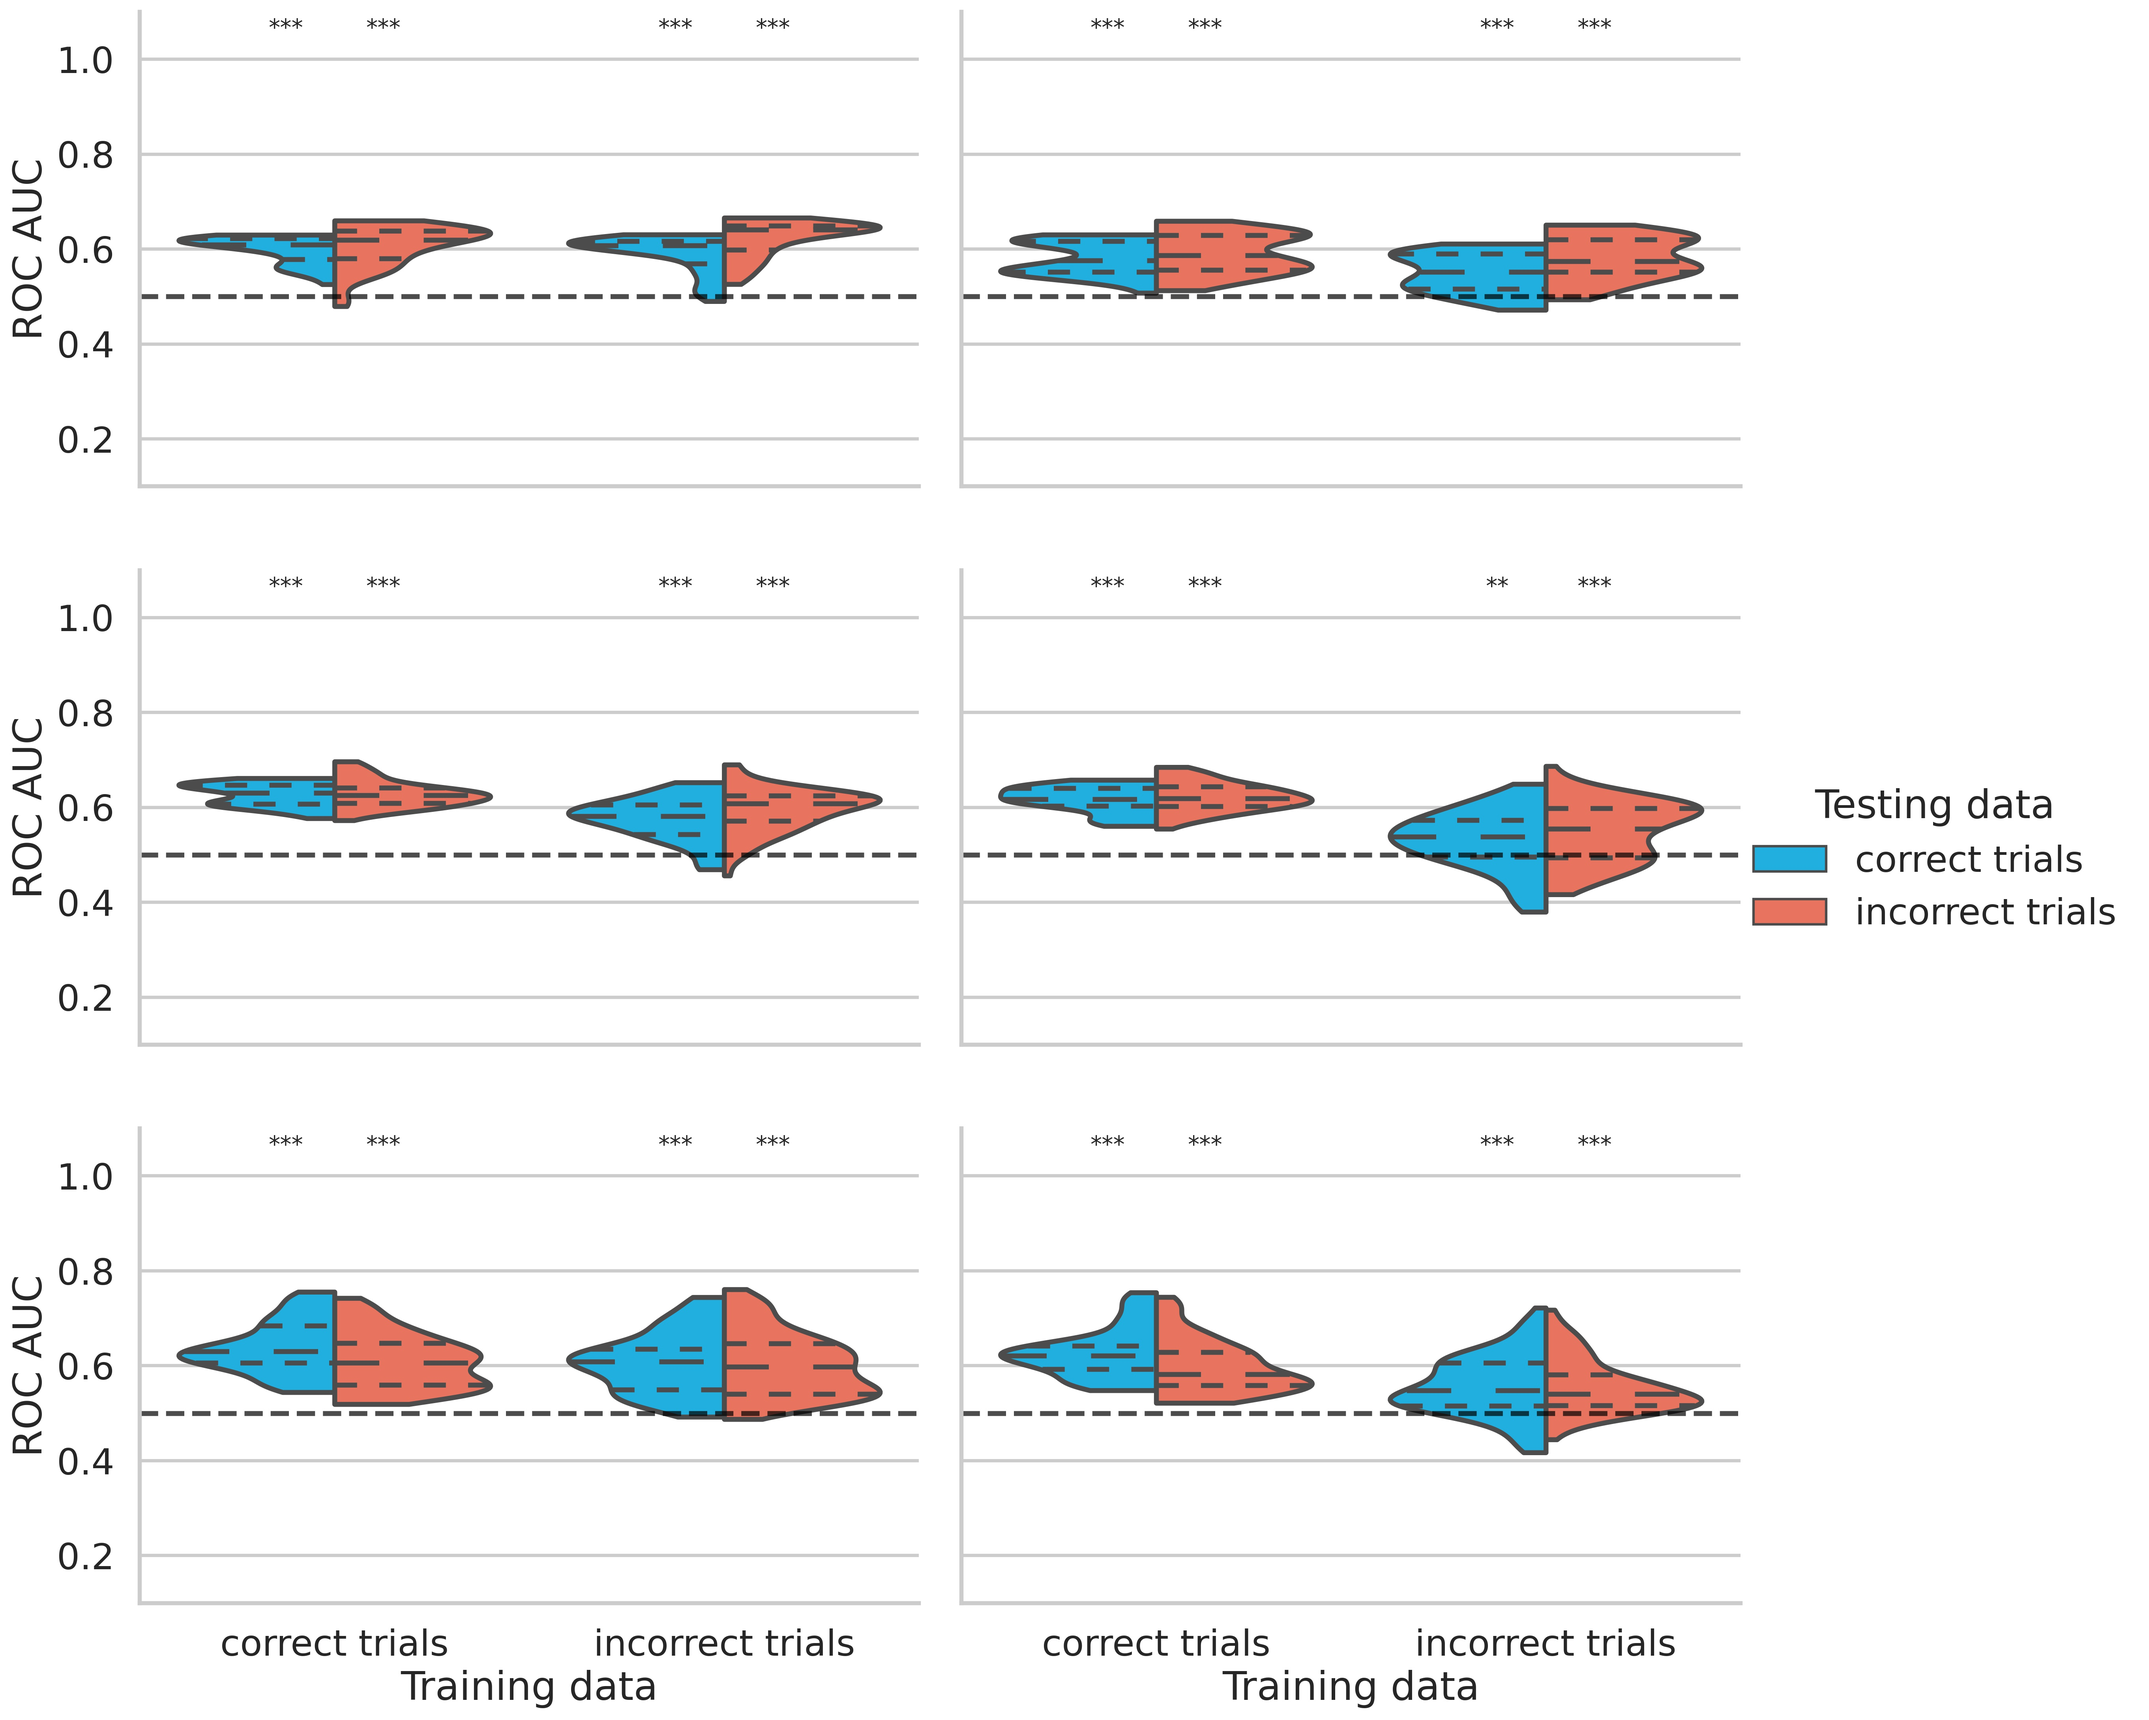
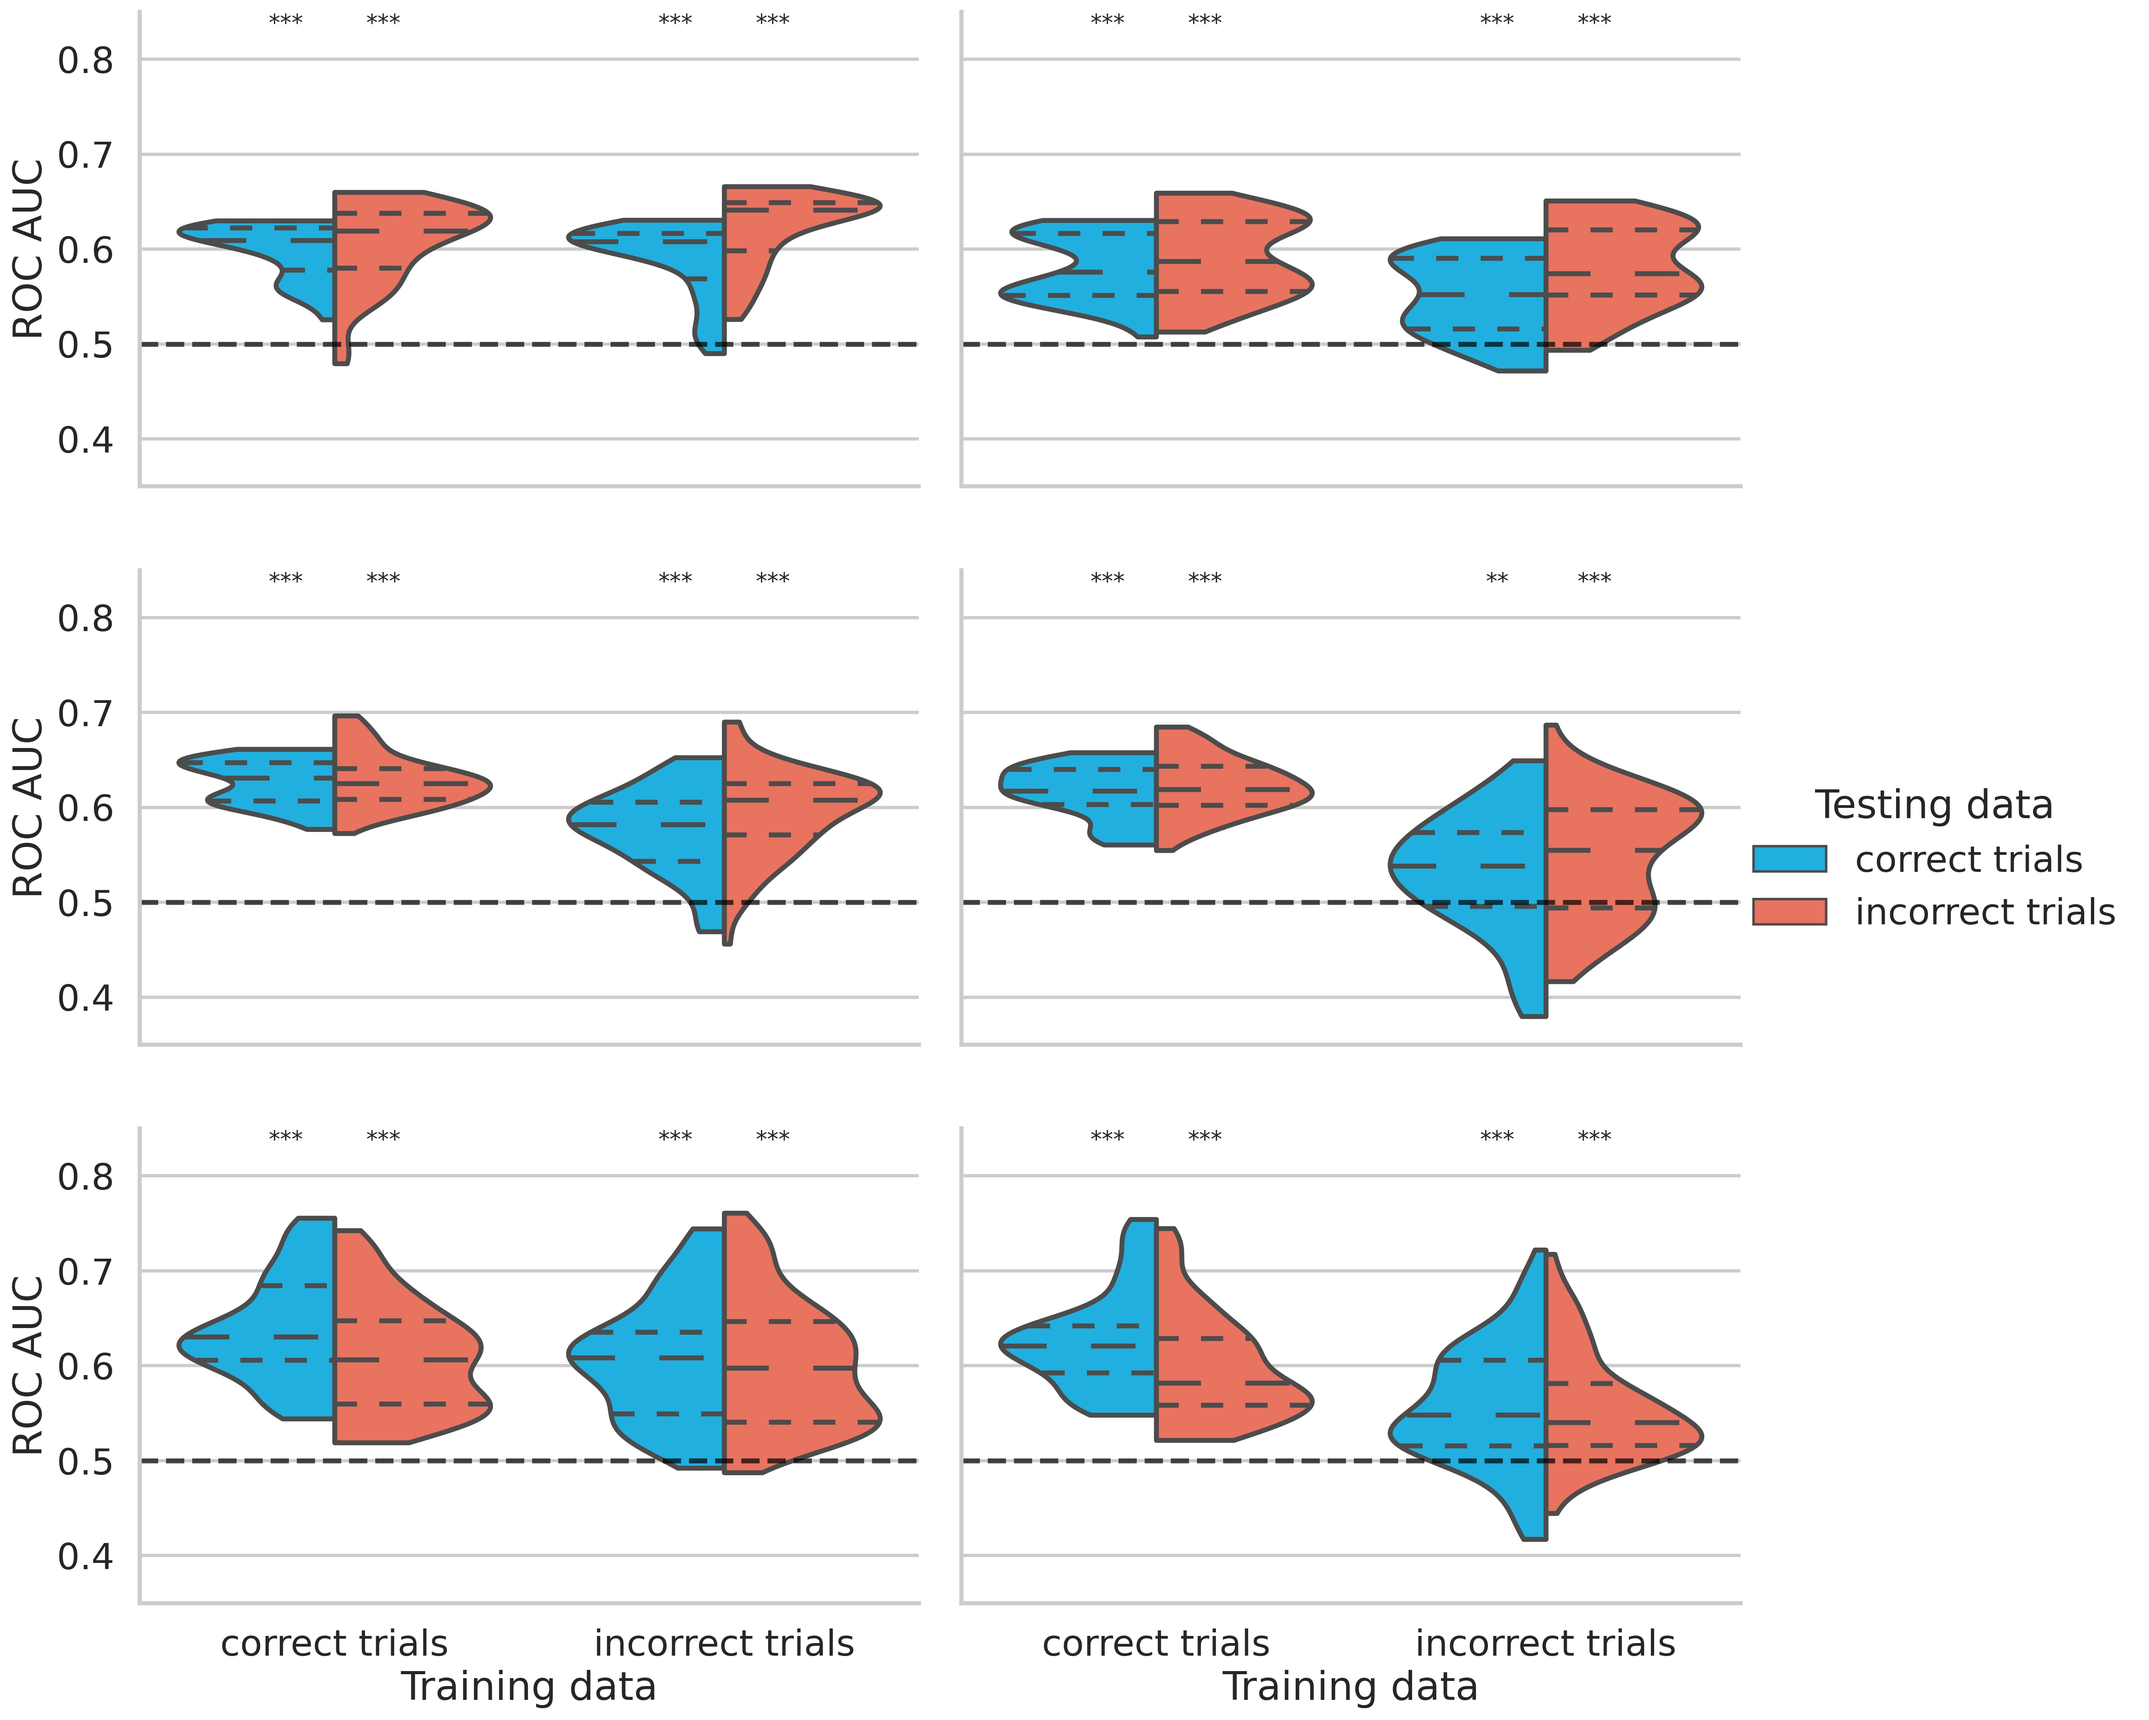
update

diff --git a/scripts/5.2.1.stats_CD_confidence.py b/scripts/5.2.1.stats_CD_confidence.py
@@ -49,7 +49,7 @@ df = pd.concat(df)
 df_ave = df.groupby(['decoder','source','filename','fold','accuracy_train','accuracy_test']).mean().reset_index()
 
 # common settings
-ylim    = (0.1,1.1)
+ylim    = (0.35,.85)
 confidence_range= 4
 time_steps      = np.arange(7)
 dict_rename     = {0:'incorrect trials',1:'correct trials'}
@@ -138,7 +138,7 @@ for ax_row,target_data in zip(g.axes,['cognitive','mem_4','mixed_4']):
                 # print(temp_row['stars'])
                 if '*' in temp_row['stars']:
                     _ax.annotate(temp_row['stars'],
-                                xy          = (ii + adjustment,1.05),
+                                xy          = (ii + adjustment,0.83),
                                 ha          = 'center',
                                 fontsize    = 14)
 (g.set_axis_labels("Training data","ROC AUC")
